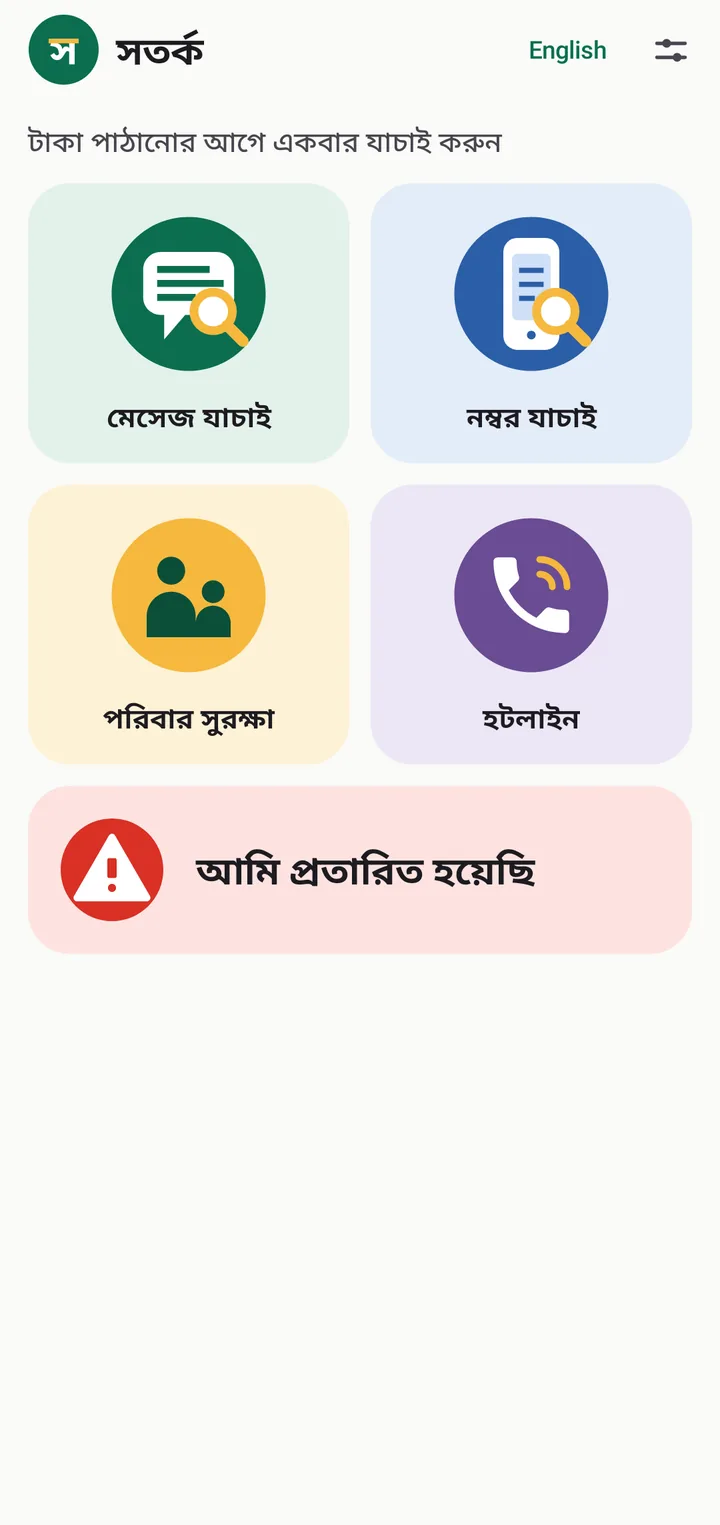
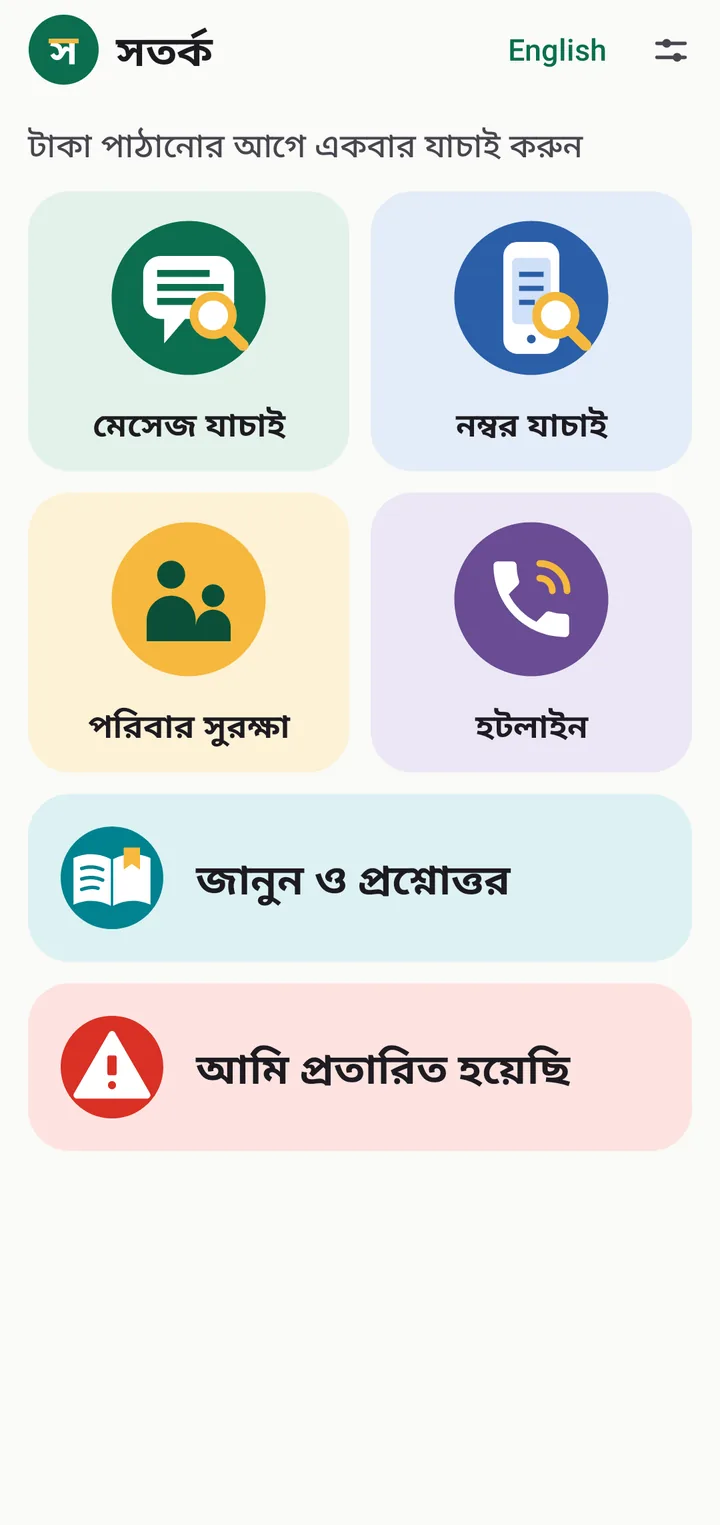
Website: Learn and FAQ feature card and the new home screenshot

diff --git a/index.html b/index.html
@@ -10,7 +10,7 @@
 <meta name="theme-color" content="#0b6e4f">
 <link rel="icon" href="assets/favicon.svg" type="image/svg+xml">
 <link rel="preload" href="assets/fonts/NotoSansBengali.woff2" as="font" type="font/woff2" crossorigin>
-<link rel="stylesheet" href="assets/style.css?v=205946e1">
+<link rel="stylesheet" href="assets/style.css?v=1f3323c4">
 <meta property="og:type" content="website">
 <meta property="og:site_name" content="সতর্ক / Sotorko">
 <meta property="og:title" content="সতর্ক: টাকা পাঠানোর আগে একবার যাচাই করুন">
@@ -63,7 +63,7 @@
 <section id="screens" class="tint-green" aria-labelledby="shots-h">
 <div class="wrap">
 <h2 id="shots-h">অ্যাপটি দেখতে যেমন</h2>
-<div class="gallery" tabindex="0" role="group" aria-labelledby="shots-h"><figure class="gallery-item"><div class="stage"><div class="shot"><img src="assets/shots/bn/home.webp" width="720" height="1525" alt="সতর্ক অ্যাপের হোম স্ক্রিন: মেসেজ যাচাই, নম্বর যাচাই, পরিবার সুরক্ষা ও হটলাইনের বড় ছবির বোতাম, নিচে লাল রঙে &quot;আমি প্রতারিত হয়েছি&quot;।" loading="lazy" decoding="async"></div></div><figcaption><strong>সবকিছু এক জায়গায়</strong>বড় ছবির বোতামে মেসেজ ও নম্বর যাচাই, হটলাইন আর পরিবার সুরক্ষা। পড়তে হয় কম, বুঝতে সহজ।</figcaption></figure><figure class="gallery-item"><div class="stage"><div class="shot"><img src="assets/shots/bn/scammed.webp" width="720" height="1525" alt="প্রতারিত হলে করণীয়ের পাঁচটি ধাপ এবং বিকাশ, নগদ, রকেট, উপায়, বাংলাদেশ ব্যাংক ও ৯৯৯-এ ফোন করার বোতাম।" loading="lazy" decoding="async"></div></div><figcaption><strong>প্রতারিত হলে করণীয়</strong>এখনই কী করবেন তার ধাপ আর হটলাইনে এক ট্যাপে ফোন। নিচে থানা ও সেবাদাতার অভিযোগের খসড়া।</figcaption></figure><figure class="gallery-item"><div class="stage"><div class="paper"><img src="assets/shots/bn/gd.webp" width="720" height="1018" alt="ছাপা জিডির আবেদন: ওসি-র উদ্দেশে লেখা, নাম, পিতার নাম, ঠিকানা, ঘটনার বিবরণ ও প্রতারকের নম্বর বসানো, তারিখ, থানা ও সইয়ের জন্য ফাঁকা লাইন সহ।" loading="lazy" decoding="async"></div></div><figcaption><strong>জিডির আবেদন, নিজে থেকে পূর্ণ</strong>আপনার তথ্য লিখলেই আবেদন পূর্ণ হয়ে যায়, এক পাতায় প্রিন্ট বা PDF করা যায়। যা লেখেননি, সেখানে হাতে লেখার জন্য লাইন টানা থাকে।</figcaption></figure><figure class="gallery-item"><div class="stage"><div class="shot"><img src="assets/shots/bn/family.webp" width="720" height="1525" alt="পরিবার সুরক্ষার পর্দা: কোড তৈরি করার ঘর, যাঁদের সুরক্ষা দিচ্ছেন তাঁদের কার্ড (নাম, &quot;চালু&quot; ব্যাজ, সরিয়ে দেওয়ার বোতাম) এবং কোড দিয়ে যুক্ত হওয়ার ঘর।" loading="lazy" decoding="async"></div></div><figcaption><strong>পরিবারকে সুরক্ষা দিন</strong>বাবা-মা বিপজ্জনক মেসেজ যাচাই করলে আপনি জানতে পারবেন। যাঁদের সুরক্ষা দিচ্ছেন তাঁদের তালিকা পরিষ্কার, আর দুজনের সম্মতিতে যেকোনো সময় বন্ধ করা যায়।</figcaption></figure></div>
+<div class="gallery" tabindex="0" role="group" aria-labelledby="shots-h"><figure class="gallery-item"><div class="stage"><div class="shot"><img src="assets/shots/bn/home.webp" width="720" height="1525" alt="সতর্ক অ্যাপের হোম স্ক্রিন: মেসেজ যাচাই, নম্বর যাচাই, পরিবার সুরক্ষা ও হটলাইনের বড় ছবির বোতাম, তার নিচে &quot;জানুন ও প্রশ্নোত্তর&quot; আর লাল রঙে &quot;আমি প্রতারিত হয়েছি&quot;।" loading="lazy" decoding="async"></div></div><figcaption><strong>সবকিছু এক জায়গায়</strong>বড় ছবির বোতামে মেসেজ ও নম্বর যাচাই, হটলাইন আর পরিবার সুরক্ষা। পড়তে হয় কম, বুঝতে সহজ।</figcaption></figure><figure class="gallery-item"><div class="stage"><div class="shot"><img src="assets/shots/bn/scammed.webp" width="720" height="1525" alt="প্রতারিত হলে করণীয়ের পাঁচটি ধাপ এবং বিকাশ, নগদ, রকেট, উপায়, বাংলাদেশ ব্যাংক ও ৯৯৯-এ ফোন করার বোতাম।" loading="lazy" decoding="async"></div></div><figcaption><strong>প্রতারিত হলে করণীয়</strong>এখনই কী করবেন তার ধাপ আর হটলাইনে এক ট্যাপে ফোন। নিচে থানা ও সেবাদাতার অভিযোগের খসড়া।</figcaption></figure><figure class="gallery-item"><div class="stage"><div class="paper"><img src="assets/shots/bn/gd.webp" width="720" height="1018" alt="ছাপা জিডির আবেদন: ওসি-র উদ্দেশে লেখা, নাম, পিতার নাম, ঠিকানা, ঘটনার বিবরণ ও প্রতারকের নম্বর বসানো, তারিখ, থানা ও সইয়ের জন্য ফাঁকা লাইন সহ।" loading="lazy" decoding="async"></div></div><figcaption><strong>জিডির আবেদন, নিজে থেকে পূর্ণ</strong>আপনার তথ্য লিখলেই আবেদন পূর্ণ হয়ে যায়, এক পাতায় প্রিন্ট বা PDF করা যায়। যা লেখেননি, সেখানে হাতে লেখার জন্য লাইন টানা থাকে।</figcaption></figure><figure class="gallery-item"><div class="stage"><div class="shot"><img src="assets/shots/bn/family.webp" width="720" height="1525" alt="পরিবার সুরক্ষার পর্দা: কোড তৈরি করার ঘর, যাঁদের সুরক্ষা দিচ্ছেন তাঁদের কার্ড (নাম, &quot;চালু&quot; ব্যাজ, সরিয়ে দেওয়ার বোতাম) এবং কোড দিয়ে যুক্ত হওয়ার ঘর।" loading="lazy" decoding="async"></div></div><figcaption><strong>পরিবারকে সুরক্ষা দিন</strong>বাবা-মা বিপজ্জনক মেসেজ যাচাই করলে আপনি জানতে পারবেন। যাঁদের সুরক্ষা দিচ্ছেন তাঁদের তালিকা পরিষ্কার, আর দুজনের সম্মতিতে যেকোনো সময় বন্ধ করা যায়।</figcaption></figure></div>
 <p class="small">ছবির মেসেজ ও তথ্য বানানো উদাহরণ। এখানে কারো আসল তথ্য নেই।</p>
 </div>
 </section>
@@ -78,7 +78,7 @@
 <section id="features" aria-labelledby="feat-h">
 <div class="wrap">
 <h2 id="feat-h">কী কী পাবেন</h2>
-<div class="cards"><article class="card t-message"><img src="assets/icons/message.svg" alt="" width="76" height="76"><h3>মেসেজ যাচাই</h3><p>পিন বা ওটিপি চাওয়া, &quot;ভুলে টাকা চলে গেছে, ফেরত দিন&quot;, পুরস্কারের প্রলোভন, ভুয়া লিংক: পরিচিত লক্ষণগুলো আপনার ফোনেই খুঁজে বের করে। ভুয়া জরিমানা, ফি নিয়ে ঘরে বসে আয়ের ফাঁদ, কুরিয়ার ফি, পুলিশ বা ৯৯৯ পরিচয়ে চাপ আর ভাতা পেতে আগে টাকা চাওয়াও ধরে।</p></article><article class="card t-number"><img src="assets/icons/number.svg" alt="" width="76" height="76"><h3>নম্বর যাচাই</h3><p>একটি নম্বর নিয়ে অন্যরা কতবার অভিযোগ করেছেন, দেখুন। চাইলে নিজেও অভিযোগ করুন। এগুলো যাচাই-না-করা অভিযোগ, কারো সম্পর্কে রায় নয়।</p></article><article class="card t-family"><img src="assets/icons/family.svg" alt="" width="76" height="76"><h3>পরিবার সুরক্ষা</h3><p>বাবা-মা কোনো বিপজ্জনক মেসেজ যাচাই করলে আপনি জানতে পারবেন। দুজনের সম্মতিতে, আর যেকোনো সময় বিরতি বা বন্ধ করা যায়।</p></article><article class="card t-sos"><img src="assets/icons/sos.svg" alt="" width="76" height="76"><h3>আমি প্রতারিত হয়েছি</h3><p>এখনই কী করবেন তার ধাপ আর হটলাইনে এক ট্যাপে ফোন। আপনার নাম, পিতার নাম ও ঠিকানা একবার লিখলেই থানার জিডির আবেদন নিজে থেকে পূর্ণ হয়ে যায়, এক পাতায় প্রিন্ট বা PDF করা যায়। সেবাদাতার কাছে অভিযোগের খসড়া আর পুলিশের অফিসিয়াল অনলাইন জিডি ফর্মে বসানোর বিবরণও পাবেন।</p></article><article class="card t-hotline"><img src="assets/icons/hotline.svg" alt="" width="76" height="76"><h3>হটলাইন</h3><p>বিকাশ ১৬২৪৭, নগদ ১৬১৬৭, রকেট ১৬২১৬, উপায় ১৬২৬৮, বাংলাদেশ ব্যাংক ১৬২৩৬, জাতীয় জরুরি সেবা ৯৯৯, এক ট্যাপে।</p></article></div>
+<div class="cards"><article class="card t-message"><img src="assets/icons/message.svg" alt="" width="76" height="76"><h3>মেসেজ যাচাই</h3><p>পিন বা ওটিপি চাওয়া, &quot;ভুলে টাকা চলে গেছে, ফেরত দিন&quot;, পুরস্কারের প্রলোভন, ভুয়া লিংক: পরিচিত লক্ষণগুলো আপনার ফোনেই খুঁজে বের করে। ভুয়া জরিমানা, ফি নিয়ে ঘরে বসে আয়ের ফাঁদ, কুরিয়ার ফি, পুলিশ বা ৯৯৯ পরিচয়ে চাপ আর ভাতা পেতে আগে টাকা চাওয়াও ধরে।</p></article><article class="card t-number"><img src="assets/icons/number.svg" alt="" width="76" height="76"><h3>নম্বর যাচাই</h3><p>একটি নম্বর নিয়ে অন্যরা কতবার অভিযোগ করেছেন, দেখুন। চাইলে নিজেও অভিযোগ করুন। এগুলো যাচাই-না-করা অভিযোগ, কারো সম্পর্কে রায় নয়।</p></article><article class="card t-family"><img src="assets/icons/family.svg" alt="" width="76" height="76"><h3>পরিবার সুরক্ষা</h3><p>বাবা-মা কোনো বিপজ্জনক মেসেজ যাচাই করলে আপনি জানতে পারবেন। দুজনের সম্মতিতে, আর যেকোনো সময় বিরতি বা বন্ধ করা যায়।</p></article><article class="card t-sos"><img src="assets/icons/sos.svg" alt="" width="76" height="76"><h3>আমি প্রতারিত হয়েছি</h3><p>এখনই কী করবেন তার ধাপ আর হটলাইনে এক ট্যাপে ফোন। আপনার নাম, পিতার নাম ও ঠিকানা একবার লিখলেই থানার জিডির আবেদন নিজে থেকে পূর্ণ হয়ে যায়, এক পাতায় প্রিন্ট বা PDF করা যায়। সেবাদাতার কাছে অভিযোগের খসড়া আর পুলিশের অফিসিয়াল অনলাইন জিডি ফর্মে বসানোর বিবরণও পাবেন।</p></article><article class="card t-hotline"><img src="assets/icons/hotline.svg" alt="" width="76" height="76"><h3>হটলাইন</h3><p>বিকাশ ১৬২৪৭, নগদ ১৬১৬৭, রকেট ১৬২১৬, উপায় ১৬২৬৮, বাংলাদেশ ব্যাংক ১৬২৩৬, জাতীয় জরুরি সেবা ৯৯৯, এক ট্যাপে।</p></article><article class="card t-learn"><img src="assets/icons/learn.svg" alt="" width="76" height="76"><h3>জানুন ও প্রশ্নোত্তর</h3><p>অ্যাপের ভেতরেই পাঁচটি সোনালি নিয়ম, চেনা প্রতারণার গাইড আর সাধারণ প্রশ্নের উত্তর। ইন্টারনেট ছাড়াই পড়া যায়।</p></article></div>
 <ul class="also"><li>পুরোপুরি বাংলায়, ইংরেজিতেও চলে</li><li>ইন্টারনেট ছাড়াই মেসেজ যাচাই</li><li>জিডির আবেদন প্রিন্ট বা PDF করা যায়</li><li>ফোনে বড় লেখার ব্যবস্থা</li><li>ফোনের পিন বা প্যাটার্ন দিয়ে অ্যাপ লক</li><li>অন্ধকার (ডার্ক) মোড</li></ul>
 </div>
 </section>

diff --git a/en/index.html b/en/index.html
@@ -10,7 +10,7 @@
 <meta name="theme-color" content="#0b6e4f">
 <link rel="icon" href="../assets/favicon.svg" type="image/svg+xml">
 <link rel="preload" href="../assets/fonts/NotoSansBengali.woff2" as="font" type="font/woff2" crossorigin>
-<link rel="stylesheet" href="../assets/style.css?v=205946e1">
+<link rel="stylesheet" href="../assets/style.css?v=1f3323c4">
 <meta property="og:type" content="website">
 <meta property="og:site_name" content="সতর্ক / Sotorko">
 <meta property="og:title" content="Sotorko: check once before you send money">
@@ -63,7 +63,7 @@
 <section id="screens" class="tint-green" aria-labelledby="shots-h">
 <div class="wrap">
 <h2 id="shots-h">See the app</h2>
-<div class="gallery" tabindex="0" role="group" aria-labelledby="shots-h"><figure class="gallery-item"><div class="stage"><div class="shot"><img src="../assets/shots/en/home.webp" width="720" height="1525" alt="The Sotorko home screen: big picture buttons for Check a message, Check a number, Family guardian and Hotlines, and a red &quot;I&#x27;ve been scammed&quot; button below." loading="lazy" decoding="async"></div></div><figcaption><strong>Everything in one place</strong>Big picture buttons for checking a message or a number, the hotlines and the family guardian. Little to read, easy to follow.</figcaption></figure><figure class="gallery-item"><div class="stage"><div class="shot"><img src="../assets/shots/en/scammed.webp" width="720" height="1525" alt="Five steps to take after being scammed, and buttons to call bKash, Nagad, Rocket, Upay, Bangladesh Bank and 999." loading="lazy" decoding="async"></div></div><figcaption><strong>What to do if you were scammed</strong>The steps to take right now and one-tap calls to the hotlines. Below them, drafts for the police and your service provider.</figcaption></figure><figure class="gallery-item"><div class="stage"><div class="paper"><img src="../assets/shots/en/gd.webp" width="720" height="1018" alt="The printed GD application addressed to the Officer in Charge, with the name, father&#x27;s name, address, account of what happened and scammer&#x27;s number filled in, and blank lines for the date, station and signature." loading="lazy" decoding="async"></div></div><figcaption><strong>The GD application, filled in</strong>Type your details and the application fills itself in, ready to print or save as a PDF on one page. Anything you leave out becomes a line to write on by hand.</figcaption></figure><figure class="gallery-item"><div class="stage"><div class="shot"><img src="../assets/shots/en/family.webp" width="720" height="1525" alt="The Family guardian screen: a box to create a code, a card for each person you protect (name, an On badge and a Remove button), and a box to join with a code." loading="lazy" decoding="async"></div></div><figcaption><strong>Protect your family</strong>Know when your parents check a dangerous message. See the people you protect at a glance; both sides agree first, and either can stop it at any time.</figcaption></figure></div>
+<div class="gallery" tabindex="0" role="group" aria-labelledby="shots-h"><figure class="gallery-item"><div class="stage"><div class="shot"><img src="../assets/shots/en/home.webp" width="720" height="1525" alt="The Sotorko home screen: big picture buttons for Check a message, Check a number, Family guardian and Hotlines, then a &quot;Learn and FAQ&quot; button and a red &quot;I&#x27;ve been scammed&quot; button below." loading="lazy" decoding="async"></div></div><figcaption><strong>Everything in one place</strong>Big picture buttons for checking a message or a number, the hotlines and the family guardian. Little to read, easy to follow.</figcaption></figure><figure class="gallery-item"><div class="stage"><div class="shot"><img src="../assets/shots/en/scammed.webp" width="720" height="1525" alt="Five steps to take after being scammed, and buttons to call bKash, Nagad, Rocket, Upay, Bangladesh Bank and 999." loading="lazy" decoding="async"></div></div><figcaption><strong>What to do if you were scammed</strong>The steps to take right now and one-tap calls to the hotlines. Below them, drafts for the police and your service provider.</figcaption></figure><figure class="gallery-item"><div class="stage"><div class="paper"><img src="../assets/shots/en/gd.webp" width="720" height="1018" alt="The printed GD application addressed to the Officer in Charge, with the name, father&#x27;s name, address, account of what happened and scammer&#x27;s number filled in, and blank lines for the date, station and signature." loading="lazy" decoding="async"></div></div><figcaption><strong>The GD application, filled in</strong>Type your details and the application fills itself in, ready to print or save as a PDF on one page. Anything you leave out becomes a line to write on by hand.</figcaption></figure><figure class="gallery-item"><div class="stage"><div class="shot"><img src="../assets/shots/en/family.webp" width="720" height="1525" alt="The Family guardian screen: a box to create a code, a card for each person you protect (name, an On badge and a Remove button), and a box to join with a code." loading="lazy" decoding="async"></div></div><figcaption><strong>Protect your family</strong>Know when your parents check a dangerous message. See the people you protect at a glance; both sides agree first, and either can stop it at any time.</figcaption></figure></div>
 <p class="small">The message and details in the pictures are made-up examples. They show nobody&#x27;s real information.</p>
 </div>
 </section>
@@ -78,7 +78,7 @@
 <section id="features" aria-labelledby="feat-h">
 <div class="wrap">
 <h2 id="feat-h">What you get</h2>
-<div class="cards"><article class="card t-message"><img src="../assets/icons/message.svg" alt="" width="76" height="76"><h3>Check a message</h3><p>Finds the classic warning signs on your phone: asking for your PIN or OTP, &quot;sent by mistake, send it back&quot;, prize bait and fake links. It also catches fake fines, earning schemes that charge fees, courier fees, police or 999 impersonation, and benefits that ask for money first.</p></article><article class="card t-number"><img src="../assets/icons/number.svg" alt="" width="76" height="76"><h3>Check a number</h3><p>See how many people have reported a number, and report one yourself. These are unverified reports, not a verdict on anyone.</p></article><article class="card t-family"><img src="../assets/icons/family.svg" alt="" width="76" height="76"><h3>Family guardian</h3><p>Know when your parents check a dangerous message. Both sides agree first, and either can pause or stop it at any time.</p></article><article class="card t-sos"><img src="../assets/icons/sos.svg" alt="" width="76" height="76"><h3>I&#x27;ve been scammed</h3><p>The steps to take right now and one-tap calls to the hotlines. Type your name, father&#x27;s name and address once and the police GD application fills itself in, ready to print or save as a PDF on one page. You also get a complaint to your service provider and details ready to paste into the police&#x27;s official Online GD form.</p></article><article class="card t-hotline"><img src="../assets/icons/hotline.svg" alt="" width="76" height="76"><h3>Hotlines</h3><p>bKash 16247, Nagad 16167, Rocket 16216, Upay 16268, Bangladesh Bank 16236 and national emergency 999, one tap away.</p></article></div>
+<div class="cards"><article class="card t-message"><img src="../assets/icons/message.svg" alt="" width="76" height="76"><h3>Check a message</h3><p>Finds the classic warning signs on your phone: asking for your PIN or OTP, &quot;sent by mistake, send it back&quot;, prize bait and fake links. It also catches fake fines, earning schemes that charge fees, courier fees, police or 999 impersonation, and benefits that ask for money first.</p></article><article class="card t-number"><img src="../assets/icons/number.svg" alt="" width="76" height="76"><h3>Check a number</h3><p>See how many people have reported a number, and report one yourself. These are unverified reports, not a verdict on anyone.</p></article><article class="card t-family"><img src="../assets/icons/family.svg" alt="" width="76" height="76"><h3>Family guardian</h3><p>Know when your parents check a dangerous message. Both sides agree first, and either can pause or stop it at any time.</p></article><article class="card t-sos"><img src="../assets/icons/sos.svg" alt="" width="76" height="76"><h3>I&#x27;ve been scammed</h3><p>The steps to take right now and one-tap calls to the hotlines. Type your name, father&#x27;s name and address once and the police GD application fills itself in, ready to print or save as a PDF on one page. You also get a complaint to your service provider and details ready to paste into the police&#x27;s official Online GD form.</p></article><article class="card t-hotline"><img src="../assets/icons/hotline.svg" alt="" width="76" height="76"><h3>Hotlines</h3><p>bKash 16247, Nagad 16167, Rocket 16216, Upay 16268, Bangladesh Bank 16236 and national emergency 999, one tap away.</p></article><article class="card t-learn"><img src="../assets/icons/learn.svg" alt="" width="76" height="76"><h3>Learn and FAQ</h3><p>Five golden rules, a guide to common scams and answers to common questions, inside the app. It works without internet.</p></article></div>
 <ul class="also"><li>Fully in Bangla, and in English too</li><li>Message checks work without internet</li><li>Print the GD application or save it as a PDF</li><li>Adjustable text size</li><li>App lock with your phone&#x27;s PIN or pattern</li><li>Dark mode</li></ul>
 </div>
 </section>

diff --git a/assets/style.css b/assets/style.css
@@ -18,6 +18,7 @@
   --t-blue: #e3ecf8;
   --t-amber: #fdf1d6;
   --t-purple: #ece6f5;
+  --t-teal: #ddf1f3;
   --t-red: #fde3e0;
   --link: #0b6e4f;
   --radius: 22px;
@@ -34,6 +35,7 @@
     --t-blue: #1b2a40;
     --t-amber: #3f3213;
     --t-purple: #2e2542;
+    --t-teal: #12353a;
     --t-red: #4a1e1b;
     --link: #7dd6b0;
   }
@@ -135,12 +137,11 @@ section { padding: 3.2rem 0; }
 @media (min-width: 900px) {
   .cards { grid-template-columns: repeat(6, 1fr); }
   .card { grid-column: span 2; }
-  .card:nth-child(n + 4) { grid-column: span 3; }
 }
 .card h3 { margin: .5rem 0 .2rem; }
 .card p { margin: 0; }
 .t-message { background: var(--t-green); } .t-number { background: var(--t-blue); } .t-family { background: var(--t-amber); }
-.t-hotline { background: var(--t-purple); } .t-sos { background: var(--t-red); }
+.t-hotline { background: var(--t-purple); } .t-sos { background: var(--t-red); } .t-learn { background: var(--t-teal); }
 .also { list-style: none; padding: 0; display: flex; flex-wrap: wrap; gap: .6rem; margin: 1.5rem 0 0; }
 .also li { border: 1px solid var(--line); background: var(--card); border-radius: 999px; padding: .3rem 1rem; font-size: .95rem; }
 .scam-grid { display: grid; gap: 1rem; margin-top: 1.5rem; }

diff --git a/privacy/index.html b/privacy/index.html
@@ -10,7 +10,7 @@
 <meta name="theme-color" content="#0b6e4f">
 <link rel="icon" href="../assets/favicon.svg" type="image/svg+xml">
 <link rel="preload" href="../assets/fonts/NotoSansBengali.woff2" as="font" type="font/woff2" crossorigin>
-<link rel="stylesheet" href="../assets/style.css?v=205946e1">
+<link rel="stylesheet" href="../assets/style.css?v=1f3323c4">
 <meta property="og:type" content="website">
 <meta property="og:site_name" content="সতর্ক / Sotorko">
 <meta property="og:title" content="সতর্ক গোপনীয়তা নীতি · Sotorko Privacy Policy">

diff --git a/404.html b/404.html
@@ -10,7 +10,7 @@
 <meta name="theme-color" content="#0b6e4f">
 <link rel="icon" href="/assets/favicon.svg" type="image/svg+xml">
 <link rel="preload" href="/assets/fonts/NotoSansBengali.woff2" as="font" type="font/woff2" crossorigin>
-<link rel="stylesheet" href="/assets/style.css?v=205946e1">
+<link rel="stylesheet" href="/assets/style.css?v=1f3323c4">
 <meta property="og:type" content="website">
 <meta property="og:site_name" content="সতর্ক / Sotorko">
 <meta property="og:title" content="পাতাটি পাওয়া যায়নি · Page not found">

diff --git a/content.py b/content.py
@@ -30,7 +30,7 @@ BN = {
     "screens_note": "ছবির মেসেজ ও তথ্য বানানো উদাহরণ। এখানে কারো আসল তথ্য নেই।",
     "screens": [
         ("home", "সবকিছু এক জায়গায়", "বড় ছবির বোতামে মেসেজ ও নম্বর যাচাই, হটলাইন আর পরিবার সুরক্ষা। পড়তে হয় কম, বুঝতে সহজ।",
-         "সতর্ক অ্যাপের হোম স্ক্রিন: মেসেজ যাচাই, নম্বর যাচাই, পরিবার সুরক্ষা ও হটলাইনের বড় ছবির বোতাম, নিচে লাল রঙে \"আমি প্রতারিত হয়েছি\"।"),
+         "সতর্ক অ্যাপের হোম স্ক্রিন: মেসেজ যাচাই, নম্বর যাচাই, পরিবার সুরক্ষা ও হটলাইনের বড় ছবির বোতাম, তার নিচে \"জানুন ও প্রশ্নোত্তর\" আর লাল রঙে \"আমি প্রতারিত হয়েছি\"।"),
         ("scammed", "প্রতারিত হলে করণীয়", "এখনই কী করবেন তার ধাপ আর হটলাইনে এক ট্যাপে ফোন। নিচে থানা ও সেবাদাতার অভিযোগের খসড়া।",
          "প্রতারিত হলে করণীয়ের পাঁচটি ধাপ এবং বিকাশ, নগদ, রকেট, উপায়, বাংলাদেশ ব্যাংক ও ৯৯৯-এ ফোন করার বোতাম।"),
         ("gd", "জিডির আবেদন, নিজে থেকে পূর্ণ", "আপনার তথ্য লিখলেই আবেদন পূর্ণ হয়ে যায়, এক পাতায় প্রিন্ট বা PDF করা যায়। যা লেখেননি, সেখানে হাতে লেখার জন্য লাইন টানা থাকে।",
@@ -59,6 +59,7 @@ BN = {
         ("family", "পরিবার সুরক্ষা", "বাবা-মা কোনো বিপজ্জনক মেসেজ যাচাই করলে আপনি জানতে পারবেন। দুজনের সম্মতিতে, আর যেকোনো সময় বিরতি বা বন্ধ করা যায়।"),
         ("sos", "আমি প্রতারিত হয়েছি", "এখনই কী করবেন তার ধাপ আর হটলাইনে এক ট্যাপে ফোন। আপনার নাম, পিতার নাম ও ঠিকানা একবার লিখলেই থানার জিডির আবেদন নিজে থেকে পূর্ণ হয়ে যায়, এক পাতায় প্রিন্ট বা PDF করা যায়। সেবাদাতার কাছে অভিযোগের খসড়া আর পুলিশের অফিসিয়াল অনলাইন জিডি ফর্মে বসানোর বিবরণও পাবেন।"),
         ("hotline", "হটলাইন", "বিকাশ ১৬২৪৭, নগদ ১৬১৬৭, রকেট ১৬২১৬, উপায় ১৬২৬৮, বাংলাদেশ ব্যাংক ১৬২৩৬, জাতীয় জরুরি সেবা ৯৯৯, এক ট্যাপে।"),
+        ("learn", "জানুন ও প্রশ্নোত্তর", "অ্যাপের ভেতরেই পাঁচটি সোনালি নিয়ম, চেনা প্রতারণার গাইড আর সাধারণ প্রশ্নের উত্তর। ইন্টারনেট ছাড়াই পড়া যায়।"),
     ],
     "also": ["পুরোপুরি বাংলায়, ইংরেজিতেও চলে", "ইন্টারনেট ছাড়াই মেসেজ যাচাই", "জিডির আবেদন প্রিন্ট বা PDF করা যায়", "ফোনে বড় লেখার ব্যবস্থা", "ফোনের পিন বা প্যাটার্ন দিয়ে অ্যাপ লক", "অন্ধকার (ডার্ক) মোড"],
     "scams_title": "চেনা প্রতারণা, আর কী করবেন",
@@ -129,7 +130,7 @@ EN = {
     "screens_note": "The message and details in the pictures are made-up examples. They show nobody's real information.",
     "screens": [
         ("home", "Everything in one place", "Big picture buttons for checking a message or a number, the hotlines and the family guardian. Little to read, easy to follow.",
-         "The Sotorko home screen: big picture buttons for Check a message, Check a number, Family guardian and Hotlines, and a red \"I've been scammed\" button below."),
+         "The Sotorko home screen: big picture buttons for Check a message, Check a number, Family guardian and Hotlines, then a \"Learn and FAQ\" button and a red \"I've been scammed\" button below."),
         ("scammed", "What to do if you were scammed", "The steps to take right now and one-tap calls to the hotlines. Below them, drafts for the police and your service provider.",
          "Five steps to take after being scammed, and buttons to call bKash, Nagad, Rocket, Upay, Bangladesh Bank and 999."),
         ("gd", "The GD application, filled in", "Type your details and the application fills itself in, ready to print or save as a PDF on one page. Anything you leave out becomes a line to write on by hand.",
@@ -158,6 +159,7 @@ EN = {
         ("family", "Family guardian", "Know when your parents check a dangerous message. Both sides agree first, and either can pause or stop it at any time."),
         ("sos", "I've been scammed", "The steps to take right now and one-tap calls to the hotlines. Type your name, father's name and address once and the police GD application fills itself in, ready to print or save as a PDF on one page. You also get a complaint to your service provider and details ready to paste into the police's official Online GD form."),
         ("hotline", "Hotlines", "bKash 16247, Nagad 16167, Rocket 16216, Upay 16268, Bangladesh Bank 16236 and national emergency 999, one tap away."),
+        ("learn", "Learn and FAQ", "Five golden rules, a guide to common scams and answers to common questions, inside the app. It works without internet."),
     ],
     "also": ["Fully in Bangla, and in English too", "Message checks work without internet", "Print the GD application or save it as a PDF", "Adjustable text size", "App lock with your phone's PIN or pattern", "Dark mode"],
     "scams_title": "Common scams, and what to do",

diff --git a/build.py b/build.py
@@ -26,7 +26,7 @@ assert len(_phone) == 1, f"the phone screenshots differ in size: {_phone}"
 assert (ROOT / "assets/style.css").read_text().count("aspect-ratio: %d / %d" % _phone.copy().pop()) >= 2, "update the aspect-ratio of .shot img and .stage in assets/style.css to the screenshots' size"
 TODAY = "2026-10-23"
 LOCALE = {"bn": "bn_BD", "en": "en_US"}
-TILE_CLASS = {"message": "t-message", "number": "t-number", "family": "t-family", "hotline": "t-hotline", "sos": "t-sos"}
+TILE_CLASS = {"message": "t-message", "number": "t-number", "family": "t-family", "hotline": "t-hotline", "sos": "t-sos", "learn": "t-learn"}
 e = html.escape
 
 
